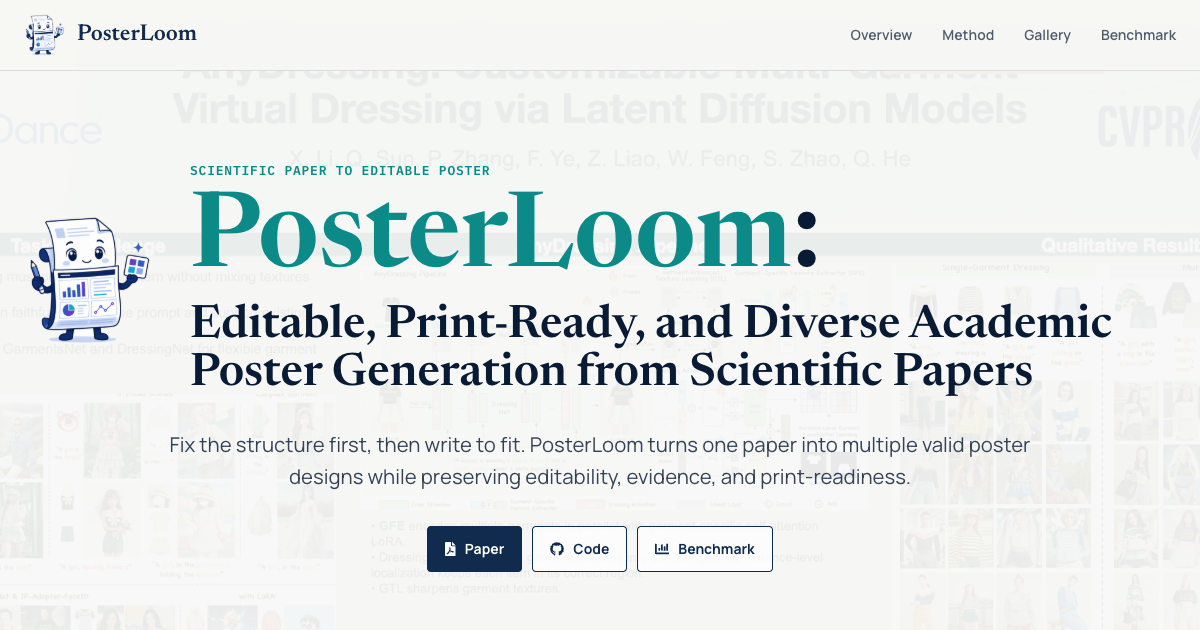
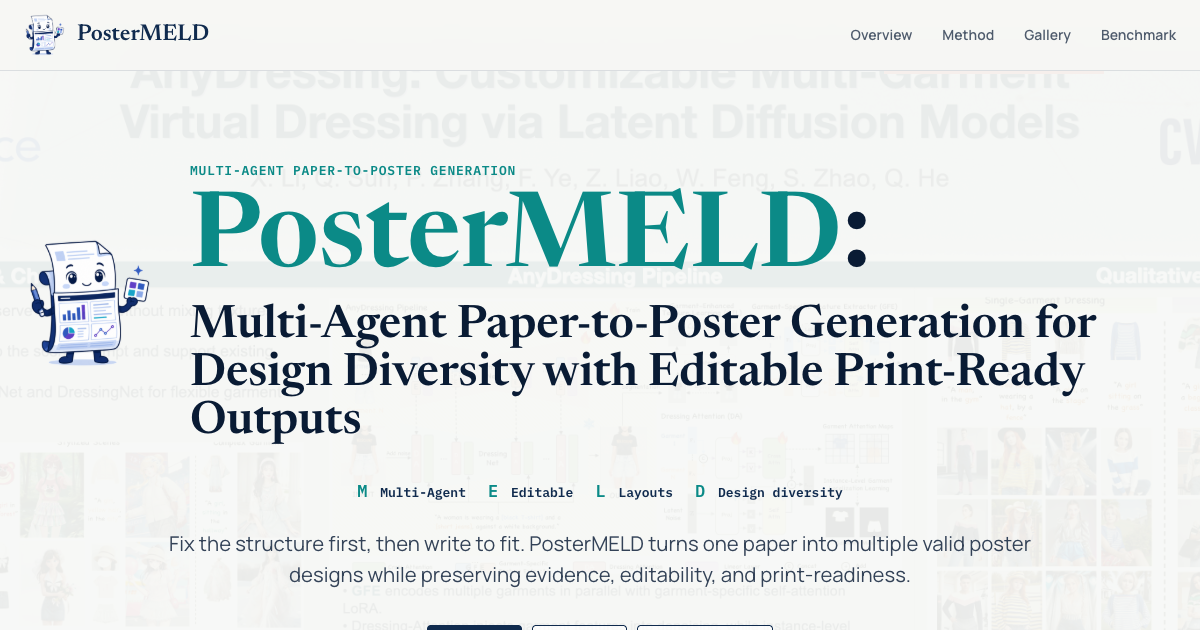
Rebrand project page as PosterMELD

diff --git a/index.html b/index.html
@@ -3,29 +3,29 @@
 <head>
   <meta charset="utf-8">
   <meta name="viewport" content="width=device-width, initial-scale=1">
-  <meta name="title" content="PosterLoom: Editable, Print-Ready, and Diverse Academic Poster Generation from Scientific Papers">
-  <meta name="description" content="PosterLoom is a template-conditioned multi-agent pipeline that turns scientific papers into diverse, print-ready, editable PPTX posters with deterministic and VLM quality control.">
+  <meta name="title" content="PosterMELD: Multi-Agent Paper-to-Poster Generation for Design Diversity with Editable Print-Ready Outputs">
+  <meta name="description" content="PosterMELD is a multi-agent paper-to-poster system for design diversity with editable, print-ready PPTX outputs and deterministic plus VLM quality control.">
   <meta name="keywords" content="academic poster generation, scientific document understanding, editable PowerPoint, multimodal agents, template-conditioned generation, visual language models">
   <meta name="robots" content="index, follow">
   <meta name="theme-color" content="#102b4e">
 
   <meta property="og:type" content="article">
-  <meta property="og:site_name" content="PosterLoom Project Page">
-  <meta property="og:title" content="PosterLoom: Editable, Print-Ready, and Diverse Academic Poster Generation">
-  <meta property="og:description" content="Fix the structure first, then write to fit: one paper becomes many valid, editable posters.">
-  <meta property="og:url" content="https://jackey0903.github.io/PosterLoom/">
-  <meta property="og:image" content="https://jackey0903.github.io/PosterLoom/static/images/social_preview.png">
+  <meta property="og:site_name" content="PosterMELD Project Page">
+  <meta property="og:title" content="PosterMELD: Multi-Agent Paper-to-Poster Generation">
+  <meta property="og:description" content="One paper, many valid posters: multi-agent composition, editable layouts, and controlled design diversity.">
+  <meta property="og:url" content="https://jackey0903.github.io/PosterMELD/">
+  <meta property="og:image" content="https://jackey0903.github.io/PosterMELD/static/images/social_preview.png">
   <meta property="og:image:width" content="1200">
   <meta property="og:image:height" content="630">
-  <meta property="og:image:alt" content="PosterLoom project page title and scientific poster preview">
+  <meta property="og:image:alt" content="PosterMELD project page title and scientific poster preview">
 
   <meta name="twitter:card" content="summary_large_image">
-  <meta name="twitter:title" content="PosterLoom: Editable, Print-Ready, and Diverse Academic Poster Generation">
-  <meta name="twitter:description" content="A template-conditioned multi-agent pipeline for diverse, valid, editable scientific posters.">
-  <meta name="twitter:image" content="https://jackey0903.github.io/PosterLoom/static/images/social_preview.png">
+  <meta name="twitter:title" content="PosterMELD: Multi-Agent Paper-to-Poster Generation">
+  <meta name="twitter:description" content="Design-diverse, valid scientific posters with editable, print-ready outputs.">
+  <meta name="twitter:image" content="https://jackey0903.github.io/PosterMELD/static/images/social_preview.png">
 
-  <title>PosterLoom | Scientific Papers to Editable Posters</title>
-  <link rel="icon" type="image/svg+xml" href="static/images/project/posterloom-logo.svg">
+  <title>PosterMELD | Multi-Agent Paper-to-Poster Generation</title>
+  <link rel="icon" type="image/svg+xml" href="static/images/project/postermeld-logo.svg">
   <link rel="preconnect" href="https://fonts.googleapis.com">
   <link rel="preconnect" href="https://fonts.gstatic.com" crossorigin>
   <link href="https://fonts.googleapis.com/css2?family=IBM+Plex+Mono:wght@500;600&family=Manrope:wght@400;500;600;700&family=Newsreader:opsz,wght@6..72,500;6..72,600&display=swap" rel="stylesheet">
@@ -36,10 +36,10 @@
   {
     "@context": "https://schema.org",
     "@type": "ScholarlyArticle",
-    "headline": "PosterLoom: Editable, Print-Ready, and Diverse Academic Poster Generation from Scientific Papers",
-    "description": "A template-conditioned multi-agent pipeline for diverse, print-ready, editable academic poster generation.",
-    "url": "https://jackey0903.github.io/PosterLoom/",
-    "image": "https://jackey0903.github.io/PosterLoom/static/images/social_preview.png",
+    "headline": "PosterMELD: Multi-Agent Paper-to-Poster Generation for Design Diversity with Editable Print-Ready Outputs",
+    "description": "A multi-agent pipeline for diverse, print-ready, editable academic poster generation.",
+    "url": "https://jackey0903.github.io/PosterMELD/",
+    "image": "https://jackey0903.github.io/PosterMELD/static/images/social_preview.png",
     "keywords": ["academic poster generation", "multimodal agents", "editable PPTX", "visual language models"],
     "isAccessibleForFree": true
   }
@@ -50,9 +50,9 @@
 
   <nav class="site-nav" aria-label="Primary navigation">
     <div class="nav-inner">
-      <a class="wordmark" href="#top" aria-label="PosterLoom home">
-        <img class="wordmark-logo" src="static/images/project/posterloom-logo.svg" alt="" width="42" height="42">
-        <span>PosterLoom</span>
+      <a class="wordmark" href="#top" aria-label="PosterMELD home">
+        <img class="wordmark-logo" src="static/images/project/postermeld-logo.svg" alt="" width="42" height="42">
+        <span>PosterMELD</span>
       </a>
       <button class="nav-toggle" type="button" aria-label="Open navigation" aria-expanded="false">
         <i class="fas fa-bars" aria-hidden="true"></i>
@@ -71,18 +71,24 @@
       <div class="hero-wash" aria-hidden="true"></div>
       <div class="hero-content reveal">
         <div class="hero-title-lockup">
-          <img class="hero-logo" src="static/images/project/posterloom-logo.svg" alt="PosterLoom paper mascot" width="214" height="223">
+          <img class="hero-logo" src="static/images/project/postermeld-logo.svg" alt="PosterMELD paper mascot" width="214" height="223">
           <div class="hero-title-copy">
-            <p class="eyebrow">Scientific paper to editable poster</p>
+            <p class="eyebrow">Multi-agent paper-to-poster generation</p>
             <h1>
-              <span class="hero-project-name">PosterLoom<span aria-hidden="true">:</span></span>
-              <span class="hero-paper-title">Editable, Print-Ready, and Diverse Academic Poster Generation from Scientific Papers</span>
+              <span class="hero-project-name">PosterMELD<span aria-hidden="true">:</span></span>
+              <span class="hero-paper-title">Multi-Agent Paper-to-Poster Generation for Design Diversity with Editable Print-Ready Outputs</span>
             </h1>
           </div>
         </div>
-        <p class="hero-lede">Fix the structure first, then write to fit. PosterLoom turns one paper into multiple valid poster designs while preserving editability, evidence, and print-readiness.</p>
+        <div class="hero-acronym" aria-label="PosterMELD acronym expansion">
+          <span><strong>M</strong> Multi-Agent</span>
+          <span><strong>E</strong> Editable</span>
+          <span><strong>L</strong> Layouts</span>
+          <span><strong>D</strong> Design diversity</span>
+        </div>
+        <p class="hero-lede">Fix the structure first, then write to fit. PosterMELD turns one paper into multiple valid poster designs while preserving evidence, editability, and print-readiness.</p>
         <div class="hero-actions" aria-label="Project links">
-          <a class="action-button action-primary" href="static/pdfs/posterloom.pdf" target="_blank" rel="noopener">
+          <a class="action-button action-primary" href="static/pdfs/postermeld.pdf" target="_blank" rel="noopener">
             <i class="fas fa-file-pdf" aria-hidden="true"></i><span>Paper</span>
           </a>
           <a class="action-button" href="https://github.com/Jackey0903/paper2poster" target="_blank" rel="noopener">
@@ -109,7 +115,7 @@
         </div>
         <div class="abstract-grid reveal">
           <p class="lead-paragraph">Turning a scientific paper into a conference poster requires compressing a long, multimodal document into one readable canvas. Existing systems often write content before the final geometry is known, then shrink, truncate, or drop material when it does not fit.</p>
-          <p>PosterLoom inverts that order. A structural template declares the capacity and visual policy of every region before content is generated. Specialized agents then select evidence, write to the available area, compose visuals, and render an editable PowerPoint. Deterministic checks and VLM review route only failed aspects to a bounded repair loop.</p>
+          <p>PosterMELD inverts that order. A structural template declares the capacity and visual policy of every region before content is generated. Specialized agents then select evidence, write to the available area, compose visuals, and render an editable PowerPoint. Deterministic checks and VLM review route only failed aspects to a bounded repair loop.</p>
         </div>
         <div class="contribution-strip reveal">
           <article>
@@ -139,11 +145,11 @@
           <p class="section-deck">Paper understanding, template-conditioned writing, reusable skills, native rendering, and bounded repair operate as one auditable pipeline.</p>
         </div>
         <figure class="figure-stage reveal">
-          <button class="image-zoom" type="button" data-image="static/images/project/framework.png" aria-label="Open the PosterLoom framework figure">
-            <img src="static/images/project/framework.png" alt="PosterLoom framework from paper inputs and user controls through reusable skills, agent composition, VLM reflection, and diverse editable outputs" width="4150" height="2002">
+          <button class="image-zoom" type="button" data-image="static/images/project/framework.png" aria-label="Open the PosterMELD framework figure">
+            <img src="static/images/project/framework.png" alt="PosterMELD framework from paper inputs and user controls through reusable skills, agent composition, VLM reflection, and diverse editable outputs" width="4150" height="2002">
             <span><i class="fas fa-expand" aria-hidden="true"></i> Expand figure</span>
           </button>
-          <figcaption>PosterLoom coordinates four specialized agents with six reusable skills. Failed drafts are repaired through rewrite, reflow, or rerender actions; accepted drafts become editable PPTX files with consistent PNG renders.</figcaption>
+          <figcaption>PosterMELD coordinates four specialized agents with six reusable skills. Failed drafts are repaired through rewrite, reflow, or rerender actions; accepted drafts become editable PPTX files with consistent PNG renders.</figcaption>
         </figure>
 
         <div class="method-steps reveal">
@@ -225,10 +231,10 @@
 
         <figure class="comparison-stage reveal">
           <button class="image-zoom" type="button" data-image="static/images/project/case_study.jpg" aria-label="Open full qualitative comparison">
-            <img src="static/images/project/case_study.jpg" alt="Qualitative comparison of P2P, PosterGen, and PosterLoom on four papers" loading="lazy">
+            <img src="static/images/project/case_study.jpg" alt="Qualitative comparison of P2P, PosterGen, and PosterMELD on four papers" loading="lazy">
             <span><i class="fas fa-expand" aria-hidden="true"></i> Expand comparison</span>
           </button>
-          <figcaption>Qualitative comparison across four papers. PosterLoom emphasizes complete evidence, readable assets, dense spatial use, and distinct visual identities.</figcaption>
+          <figcaption>Qualitative comparison across four papers. PosterMELD emphasizes complete evidence, readable assets, dense spatial use, and distinct visual identities.</figcaption>
         </figure>
       </div>
     </section>
@@ -238,7 +244,7 @@
         <div class="template-copy reveal">
           <p class="section-index">04 · Template library</p>
           <h2>Templates declare capacity, not content.</h2>
-          <p>PosterLoom separates structural topology from visual presentation. Each slot specifies its geometry, reading order, semantic role, character range, bullet budget, minimum visual footprint, and figure/table compatibility before writing begins.</p>
+          <p>PosterMELD separates structural topology from visual presentation. Each slot specifies its geometry, reading order, semantic role, character range, bullet budget, minimum visual footprint, and figure/table compatibility before writing begins.</p>
           <dl class="template-facts">
             <div><dt>16</dt><dd>landscape topologies</dd></div>
             <div><dt>8</dt><dd>portrait topologies</dd></div>
@@ -250,7 +256,7 @@
         </div>
         <figure class="template-figure reveal">
           <button class="image-zoom" type="button" data-image="static/images/project/template_library.png" aria-label="Open template topology gallery">
-            <img src="static/images/project/template_library.png" alt="Selected landscape and portrait layout topologies from the PosterLoom template library" loading="lazy">
+            <img src="static/images/project/template_library.png" alt="Selected landscape and portrait layout topologies from the PosterMELD template library" loading="lazy">
           </button>
           <figcaption>Representative landscape and portrait topologies. Runtime geometry can absorb small gaps while preserving reading order and non-overlap constraints.</figcaption>
         </figure>
@@ -262,12 +268,12 @@
         <div class="section-heading reveal">
           <p class="section-index">05 · Benchmark and evaluation</p>
           <h2>Validity is an outcome, not an assumption.</h2>
-          <p class="section-deck">The benchmark spans five source partitions and ten research domains. PosterLoom evaluates whether a poster is usable before averaging its aesthetic or content score.</p>
+          <p class="section-deck">The benchmark spans five source partitions and ten research domains. PosterMELD evaluates whether a poster is usable before averaging its aesthetic or content score.</p>
         </div>
         <div class="benchmark-layout reveal">
           <figure>
             <button class="image-zoom" type="button" data-image="static/images/project/benchmark.png" aria-label="Open benchmark composition figure">
-              <img src="static/images/project/benchmark.png" alt="PosterLoom benchmark source, domain, and venue distribution" loading="lazy">
+              <img src="static/images/project/benchmark.png" alt="PosterMELD benchmark source, domain, and venue distribution" loading="lazy">
             </button>
           </figure>
           <div class="metric-list">
@@ -291,7 +297,7 @@
 
   <footer class="site-footer">
     <div class="page-shell footer-inner">
-      <div><strong>PosterLoom</strong><span>One paper, many valid posters.</span></div>
+      <div><strong>PosterMELD</strong><span>One paper, many valid posters.</span></div>
       <p>Built from the <a href="https://github.com/eliahuhorwitz/Academic-project-page-template" target="_blank" rel="noopener">Academic Project Page Template</a>.</p>
     </div>
   </footer>

diff --git a/static/css/index.css b/static/css/index.css
@@ -184,9 +184,27 @@ button { letter-spacing: 0; }
   font-size: 46px;
   line-height: 1.04;
 }
-.hero-lede {
+.hero-acronym {
   max-width: 900px;
   margin: 30px auto 0;
+  display: flex;
+  flex-wrap: wrap;
+  justify-content: center;
+  gap: 8px 22px;
+  color: var(--navy);
+  font-family: var(--mono);
+  font-size: 13px;
+  font-weight: 600;
+}
+.hero-acronym span { white-space: nowrap; }
+.hero-acronym strong {
+  margin-right: 5px;
+  color: var(--teal);
+  font-size: 17px;
+}
+.hero-lede {
+  max-width: 900px;
+  margin: 22px auto 0;
   color: #334257;
   font-size: clamp(18px, 1.7vw, 23px);
   line-height: 1.55;
@@ -503,8 +521,10 @@ figure figcaption { margin-top: 14px; color: var(--ink-soft); font-size: 13px; l
   .project-hero { padding: 112px 18px 38px; background-position: 48% center; }
   .hero-title-lockup { grid-template-columns: 1fr; justify-items: center; gap: 15px; text-align: center; }
   .hero-logo { width: 96px; height: 96px; }
-  .hero-project-name { font-size: 62px; line-height: 0.88; }
-  .hero-paper-title { margin-top: 14px; font-size: 31px; line-height: 1.06; }
+  .hero-project-name { font-size: 50px; line-height: 0.9; }
+  .hero-paper-title { margin-top: 14px; font-size: 28px; line-height: 1.08; }
+  .hero-acronym { gap: 6px 14px; font-size: 11px; }
+  .hero-acronym strong { font-size: 15px; }
   .hero-lede { font-size: 17px; }
   .hero-stats { margin-top: 48px; }
   .hero-stats div { padding: 14px 10px; }

diff --git a/README.md b/README.md
@@ -1,8 +1,8 @@
-# PosterLoom Project Page
+# PosterMELD Project Page
 
-Project page for **PosterLoom: Editable, Print-Ready, and Diverse Academic Poster Generation from Scientific Papers**.
+Project page for **PosterMELD: Multi-Agent Paper-to-Poster Generation for Design Diversity with Editable Print-Ready Outputs**.
 
-**Live site:** [jackey0903.github.io/PosterLoom](https://jackey0903.github.io/PosterLoom/)
+**Live site:** [jackey0903.github.io/PosterMELD](https://jackey0903.github.io/PosterMELD/)
 
 The site is a static GitHub Pages deployment based on the [Academic Project Page Template](https://github.com/eliahuhorwitz/Academic-project-page-template). It contains the paper overview, method figure, template library, poster variants, qualitative case study, benchmark composition, and PDF.
 